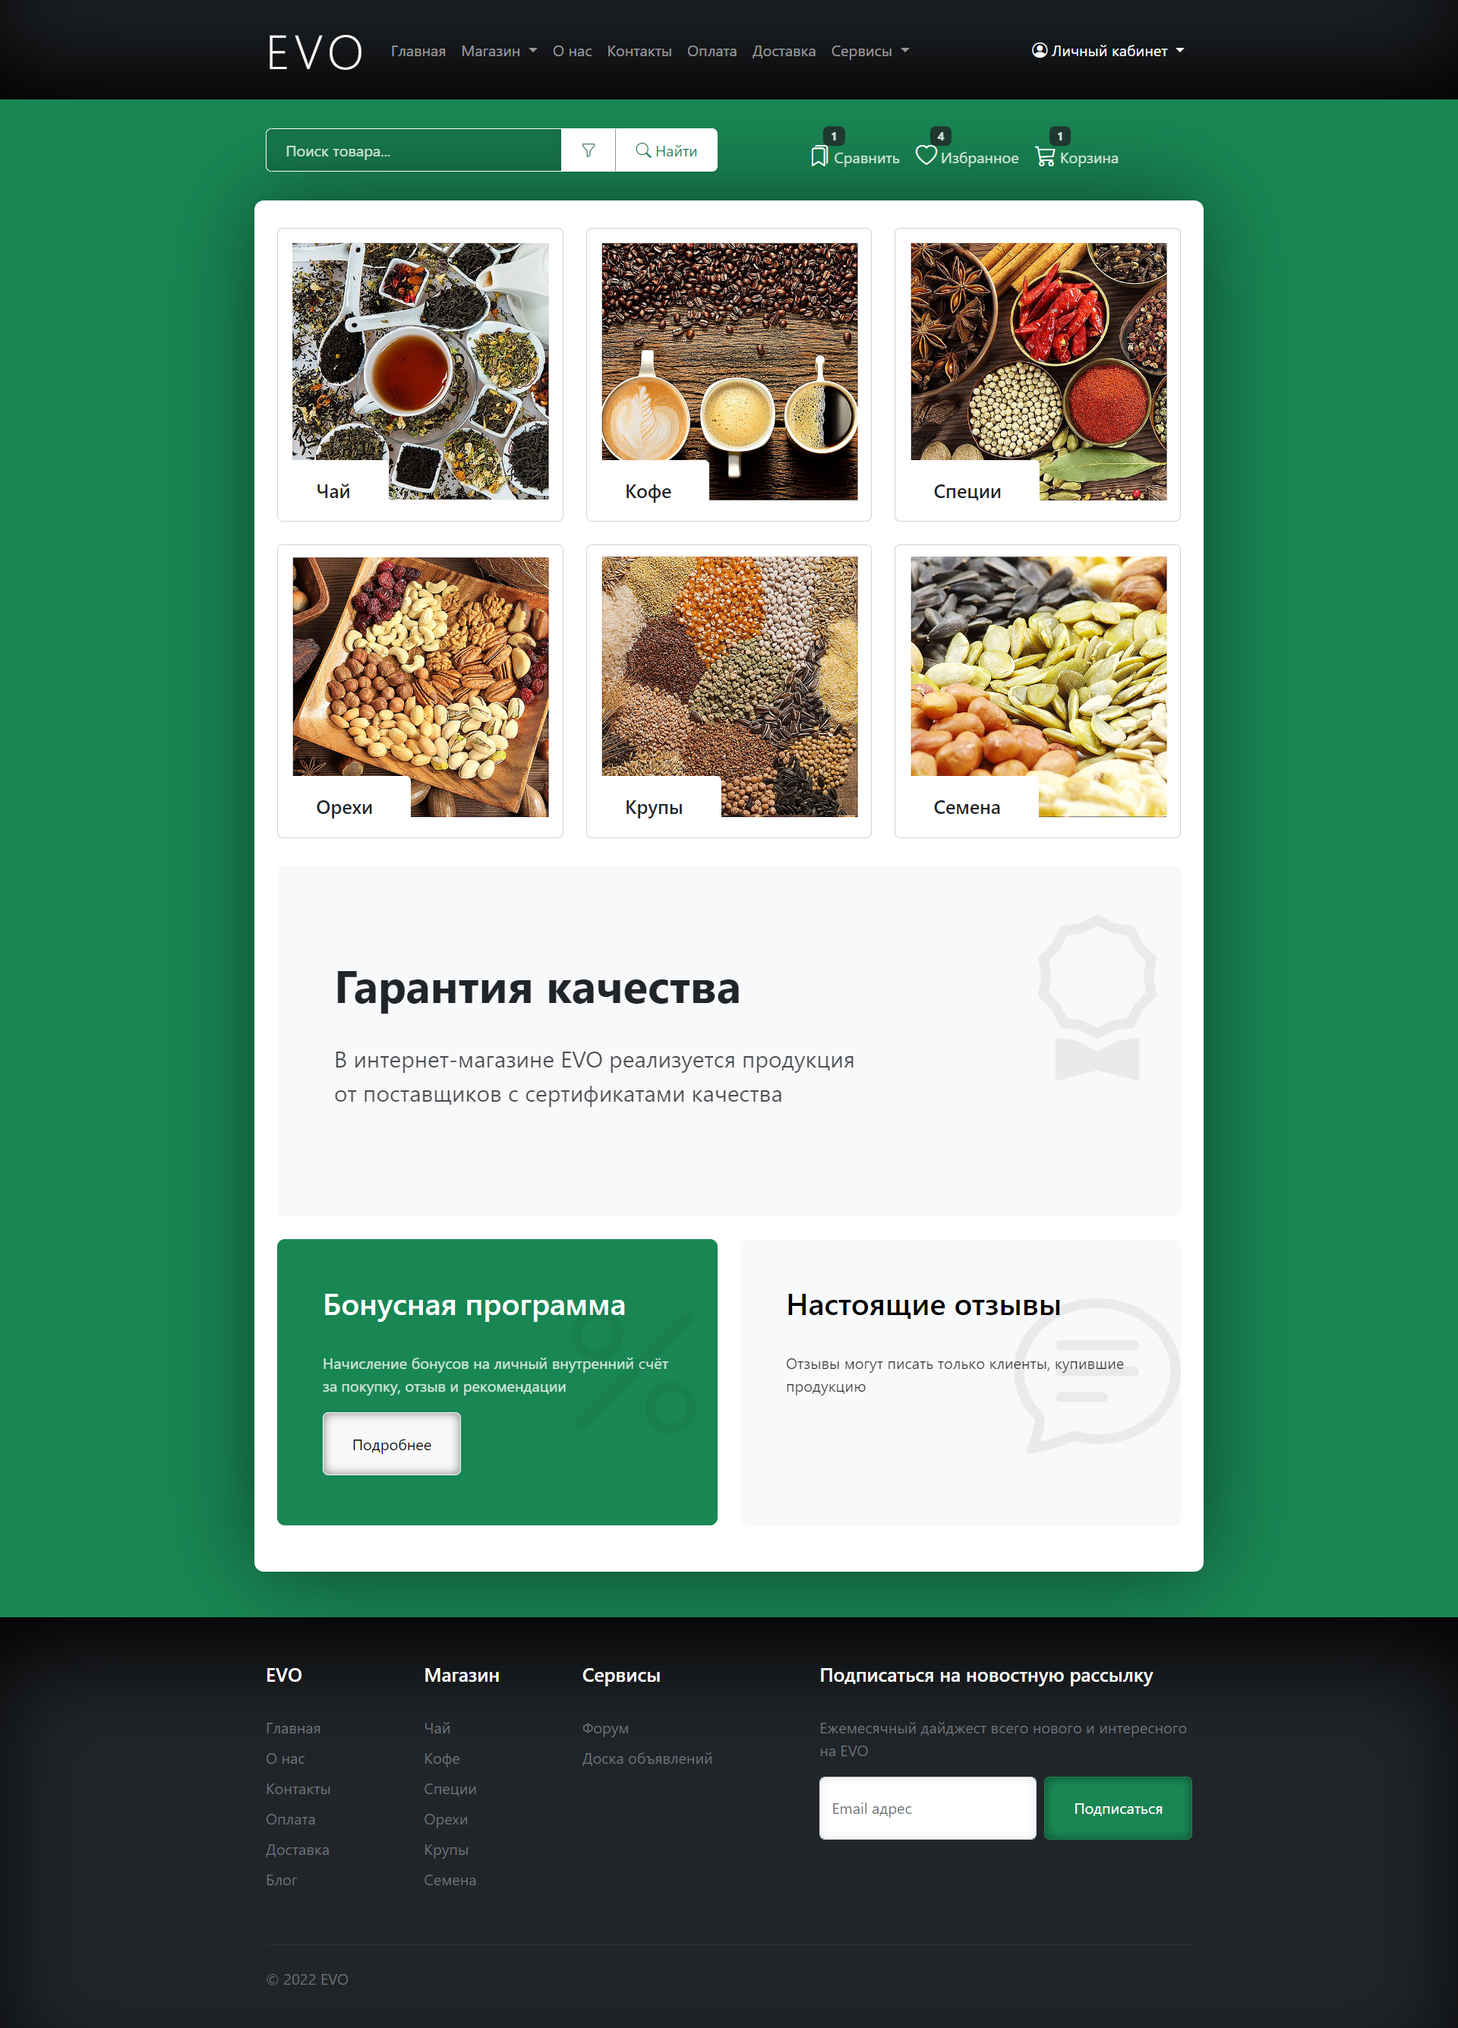
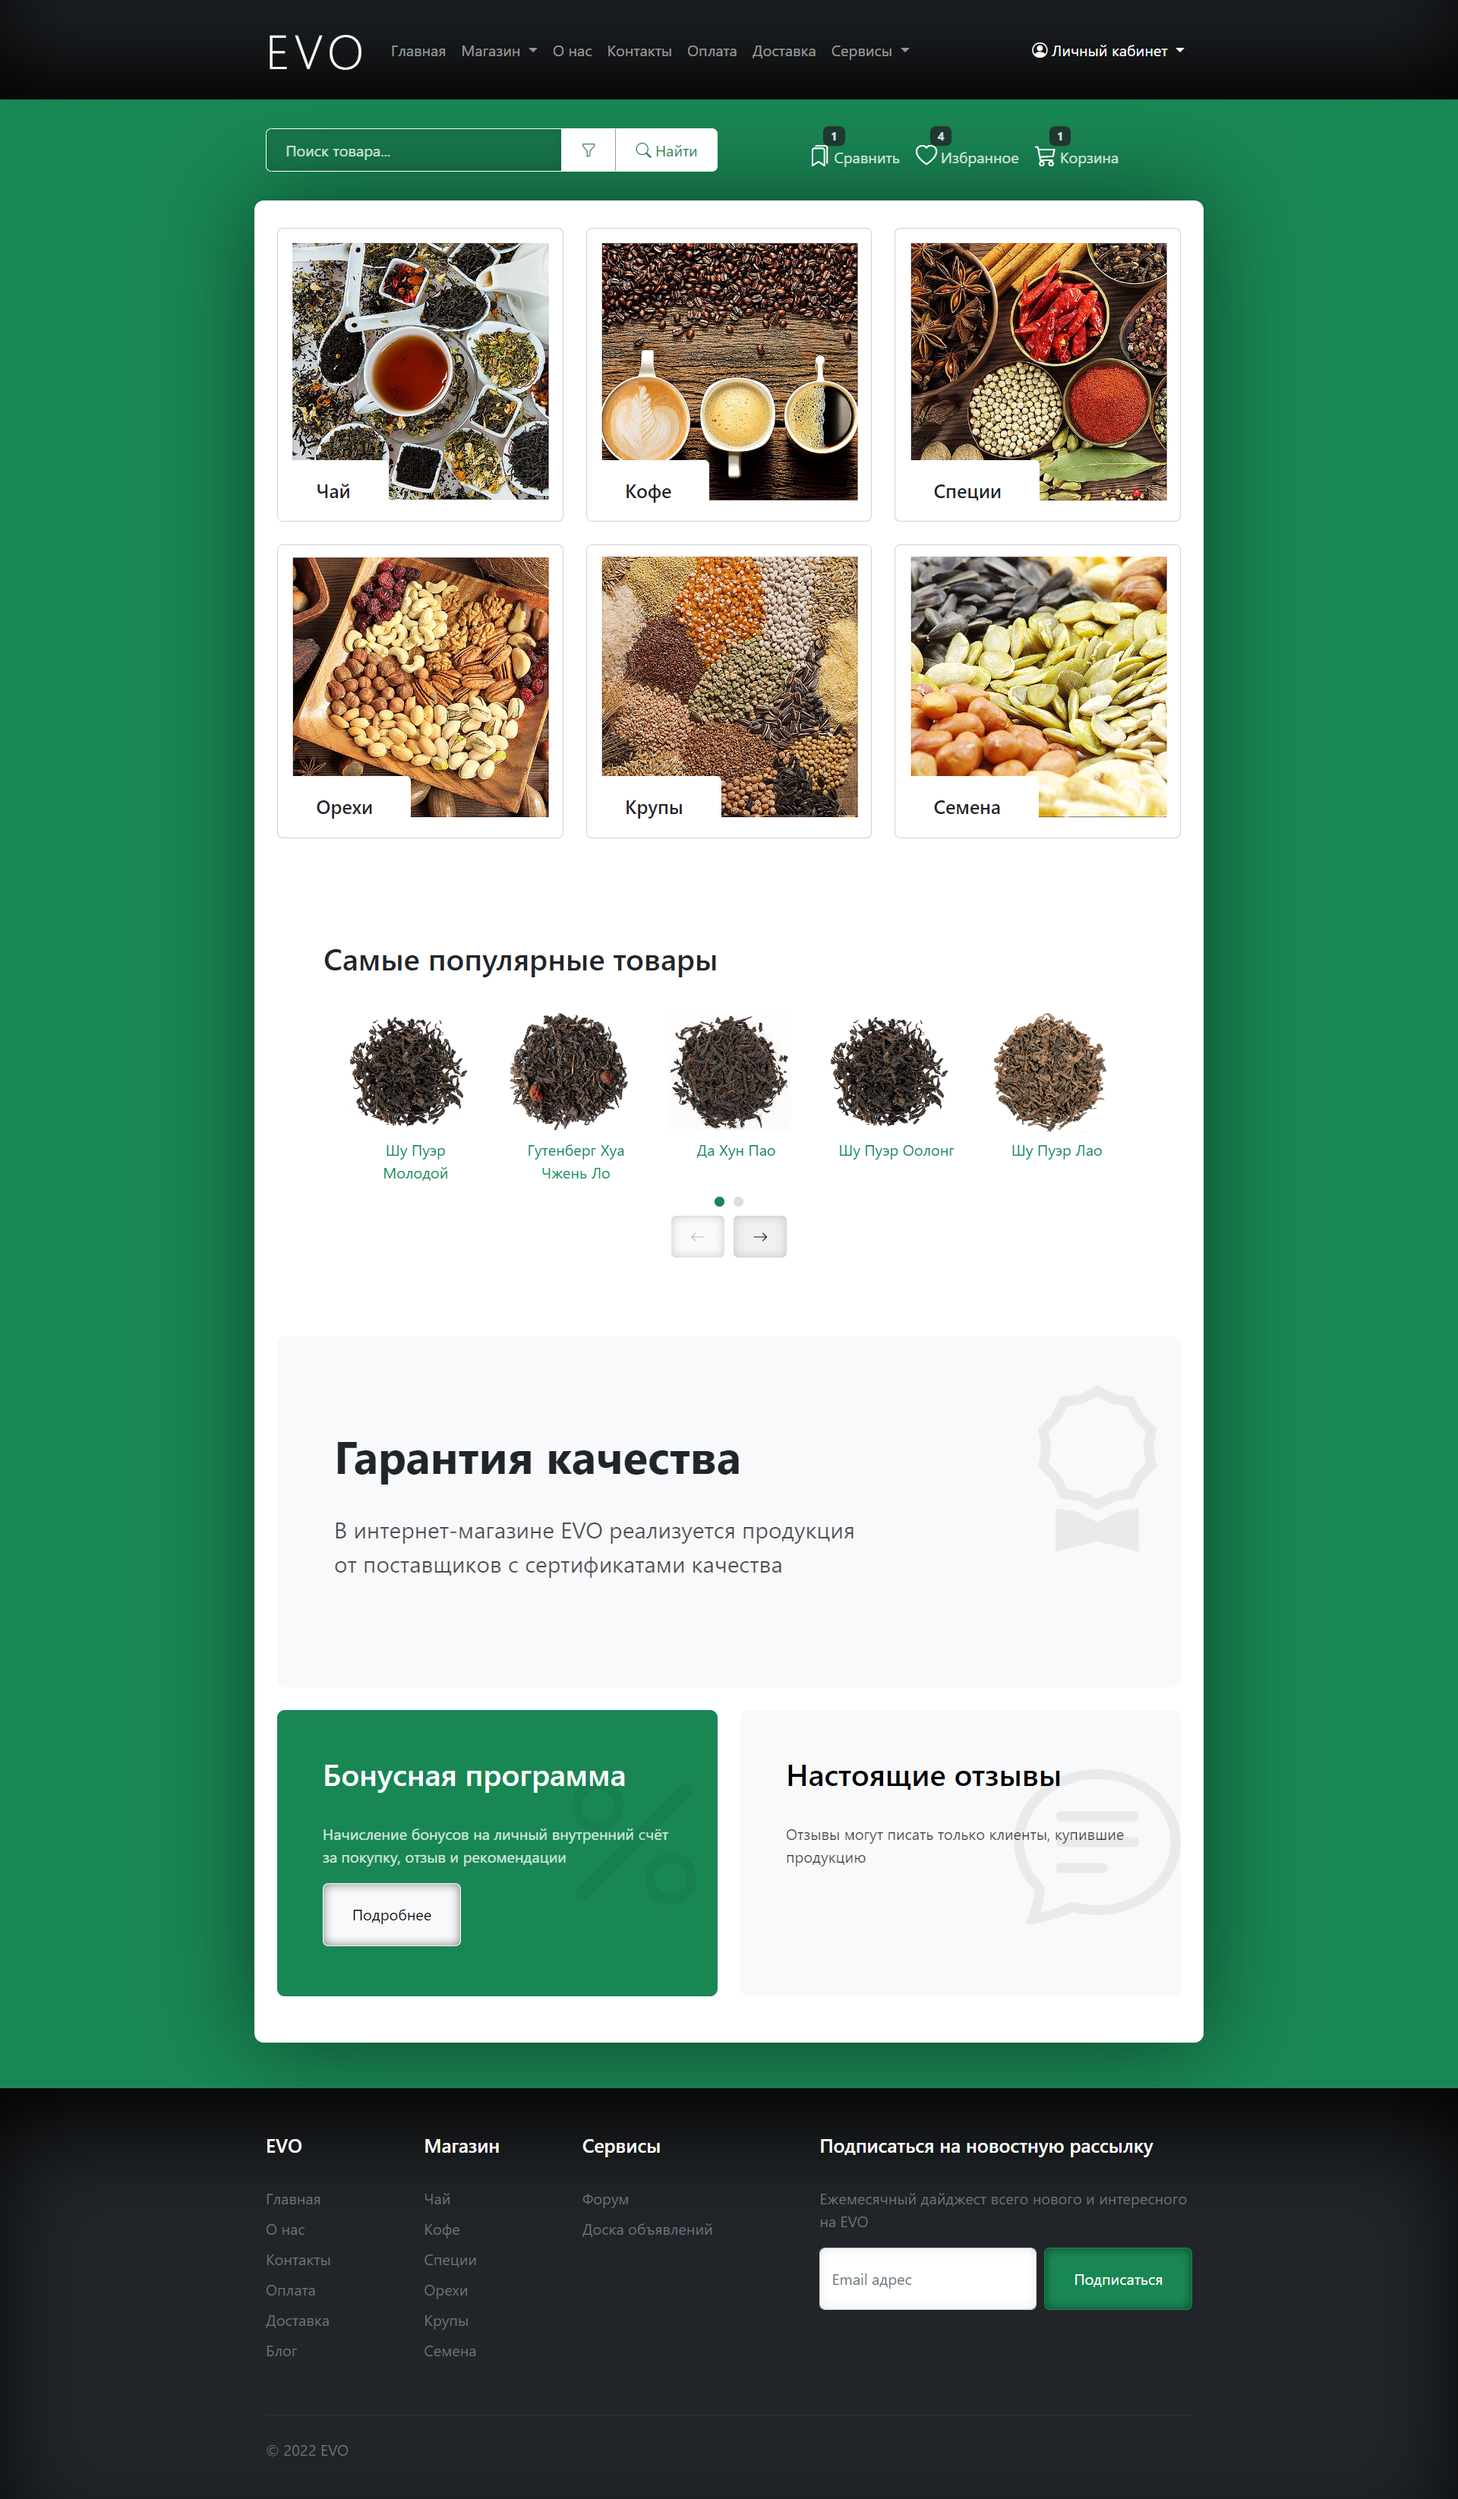
реализован слайдер популярных товаров для главной странице

diff --git a/apps/templates/core/index.html b/apps/templates/core/index.html
@@ -1,4 +1,5 @@
 {% extends 'layouts/base.html' %}
+{% load static %}
 {% block title %}EVO магазин / Главная{% endblock %}
 {% block description %}Продукция с сертификатом качества. Честные отзывы. Программа лояльности: кешбек, партнёрская
     ссылка.{% endblock %}
@@ -22,13 +23,33 @@
                                 <img src="{{ category.image.url }}" alt="image">
                                 <div class="card-body-cat">
                                     <h5 class="card-title">
-                                        <a href="{{ category.get_absolute_url }}" class="text-dark">{{ category.name }}</a>
+                                        <a href="{{ category.get_absolute_url }}"
+                                           class="text-dark">{{ category.name }}</a>
                                     </h5>
                                 </div>
                             </div>
                         </div>
                     {% endfor %}
                 {% endif %}
+            </div>
+        </div>
+    </section>
+    <section id="slider-index" class="paddingTopBottom">
+        <div class="container">
+            <div class="row">
+                <div class="col">
+                    <h2>Самые популярные товары</h2>
+                    <div class="slider-index">
+                        {% if popular %}
+                            {% for product in popular %}
+                                <div>
+                                    <img src="{{ product.image.url }}" alt="No image">
+                                    <div class="title"><a href="{{ product.get_absolute_url }}">{{ product.name}}</a></div>
+                                </div>
+                            {% endfor %}
+                        {% endif %}
+                    </div>
+                </div>
             </div>
         </div>
     </section>

diff --git a/apps/static/js/common.js b/apps/static/js/common.js
@@ -1,4 +1,4 @@
-$(function () {
+$(document).ready(function () {
     $('.minus').click(function () {
         var $input = $(this).parent().find('input');
         var count = parseInt($input.val()) - 1;
@@ -13,4 +13,42 @@ $(function () {
         $input.change();
         return false;
     });
+
+    // слайдер на главной странице, топ товаров
+    // https://github.com/ganlanyuan/tiny-slider
+    var slider = tns({
+        container: '.slider-index',
+        items: 1,
+        mouseDrag: true,
+        nav: true,
+        controls: true,
+        slideBy: 'page',
+        gutter: 0,
+        // swipeAngle: false,
+        navPosition: 'bottom',
+        controlsPosition: 'bottom',
+        controlsText: ["<i class=\"bi bi-arrow-left\"></i>", "<i class=\"bi bi-arrow-right\"></i>"],
+        loop: false,
+        // lazyload: true,
+        responsive: {
+            300: {
+                edgePadding: 20,
+                gutter: 20,
+                items: 2
+            },
+            640: {
+                edgePadding: 20,
+                gutter: 20,
+                items: 3
+            },
+            700: {
+                gutter: 30,
+                items: 4
+            },
+            900: {
+                items: 5
+            }
+        }
+    });
+
 });

diff --git a/apps/static/css/style.css b/apps/static/css/style.css
@@ -575,3 +575,52 @@ footer input {
 .cart img {
     border-radius: 5px;
 }
+
+/* слайдер*/
+#slider-index {
+    margin-top: 3%;
+    margin-bottom: 3%;
+    padding: 5%;
+}
+
+.slider-index {
+    text-align: center;
+}
+
+.slider-index img {
+    max-width: 100%;
+}
+
+.slider-index .title {
+    padding-left: 16px;
+}
+
+.slider-index a {
+    text-decoration: none;
+}
+
+.tns-outer {
+    text-align: center;
+}
+
+.tns-controls button {
+    padding: 10px 20px;
+    border-radius: 5px;
+    margin: 5px;
+    border: 0;
+    -webkit-box-shadow: 0px 0px 10px 0px rgba(0, 0, 0, 0.2) inset;
+    -moz-box-shadow: 0px 0px 10px 0px rgba(0, 0, 0, 0.2) inset;
+    box-shadow: 0px 0px 10px 0px rgba(0, 0, 0, 0.2) inset;
+}
+
+.tns-nav button {
+    margin: 5px;
+    border: 0;
+    padding: 5px;
+    border-radius: 5px;
+    background-color: #ddd;
+}
+
+.tns-nav > .tns-nav-active {
+    background: var(--color-accent);
+}

diff --git a/apps/templates/includes/scripts.html b/apps/templates/includes/scripts.html
@@ -6,6 +6,10 @@
         src="https://code.jquery.com/jquery-3.6.0.min.js"
         integrity="sha256-/xUj+3OJU5yExlq6GSYGSHk7tPXikynS7ogEvDej/m4="
         crossorigin="anonymous"></script>
-<script src="https://ajax.googleapis.com/ajax/libs/jquery/1.11.1/jquery.min.js"></script>
+{#<script src="https://ajax.googleapis.com/ajax/libs/jquery/1.11.1/jquery.min.js"></script>#}
 <script src="https://cdnjs.cloudflare.com/ajax/libs/fotorama/4.6.4/fotorama.js"></script>
+
+<link rel="stylesheet" href="https://cdnjs.cloudflare.com/ajax/libs/tiny-slider/2.9.4/tiny-slider.css">
+<script src="https://cdnjs.cloudflare.com/ajax/libs/tiny-slider/2.9.2/min/tiny-slider.js"></script>
+
 <script src="{% static 'js/common.js' %}"></script>

diff --git a/apps/core/views.py b/apps/core/views.py
@@ -8,7 +8,7 @@ from apps.core.models import Category, Product
 from apps.cart.forms import CartAddProductForm
 
 from .forms import ReviewForm
-from .services.index_service import get_category_list
+from .services.index_service import get_category_list, get_popular_list
 from .services.category_service import get_product_list
 from .services.product_service import get_product, get_review_list, get_images_list
 from .services.search_service import get_search_list
@@ -18,6 +18,11 @@ class IndexView(ListView):
     """ Главная страница, вывод категорий """
     model = Category
     template_name = 'core/index.html'
+
+    def get_context_data(self, **kwargs):
+        context = super().get_context_data(**kwargs)
+        context['popular'] = get_popular_list()
+        return context
 
     def get_queryset(self):
         return get_category_list()
@@ -38,6 +43,7 @@ class ProductView(SuccessMessageMixin, FormMixin, DetailView):
     model = Product
     template_name = 'core/product.html'
     form_class = ReviewForm
+    context_object_name = 'product'
     success_message = 'Отзыв добавлен и ожидает модерации'
 
     def get_context_data(self, **kwargs):

diff --git a/apps/core/services/index_service.py b/apps/core/services/index_service.py
@@ -1,4 +1,6 @@
-from apps.core.models import Category
+from django.db.models import Count
+
+from apps.core.models import Category, Product
 
 
 def get_category_list():
@@ -8,3 +10,15 @@ def get_category_list():
     """
     category_list = Category.objects.filter(published='yes')
     return category_list
+
+
+def get_popular_list():
+    """
+    Вернет список товаров по фильтру:
+    - к каждому товару добавлено поле "количество заказов" на данный товар
+    - сортировка по убыванию поле "количество заказов" на товар
+    - отфильтруем опубликованные товары
+    """
+    products = Product.objects.all().annotate(count=Count("order_items"))
+    popular_list = products.order_by('-count').filter(published='yes')[:7]
+    return popular_list

diff --git a/apps/core/services/product_service.py b/apps/core/services/product_service.py
@@ -5,9 +5,9 @@ from apps.core.models import Review, ProductImage, Product
 def get_product(self):
     """ Вернет товар и количество у него опубликованных отзывов """
     slug = self.kwargs['slug']
-    return (Product.objects
-            .filter(slug=slug)
-            .annotate(count=Count('reviews', filter=Q(reviews__published='yes'))))
+    return (Product.objects.filter(slug=slug)
+            .annotate(count=Count('reviews', filter=Q(reviews__published='yes')))
+            )
 
 
 def get_review_list(self):

diff --git a/config/settings.py b/config/settings.py
@@ -63,7 +63,7 @@ MIDDLEWARE = [
     'django.contrib.messages.middleware.MessageMiddleware',
     'django.middleware.clickjacking.XFrameOptionsMiddleware',
 
-    'debug_toolbar.middleware.DebugToolbarMiddleware',
+    # 'debug_toolbar.middleware.DebugToolbarMiddleware',
 ]
 
 ROOT_URLCONF = 'config.urls'
